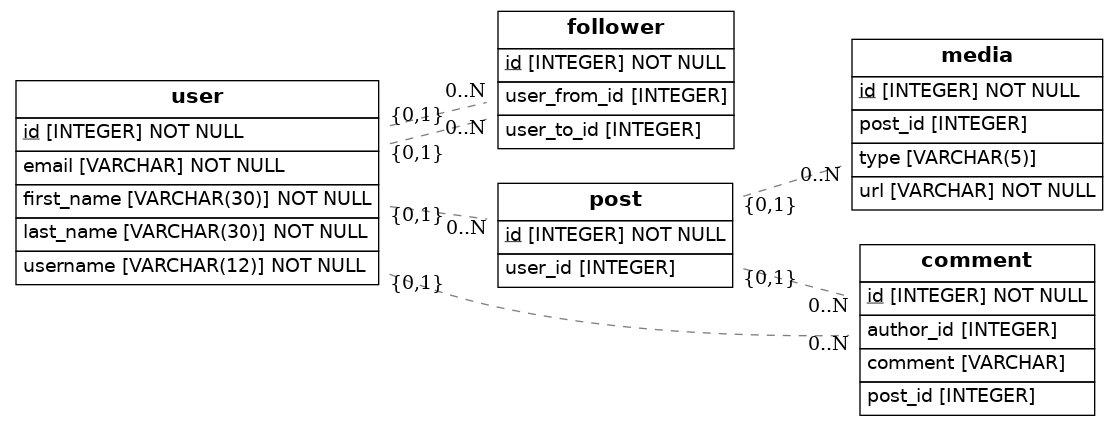
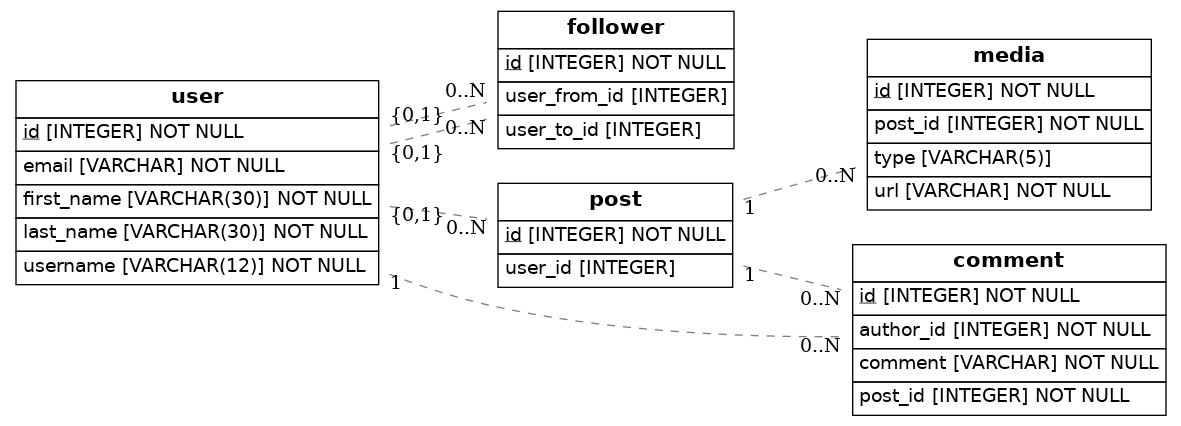
complete

diff --git a/src/models.py b/src/models.py
@@ -14,6 +14,8 @@ class User(Base):
     first_name = Column(String(30), nullable=False)
     last_name = Column(String(30), nullable=False)
     email = Column(String, nullable=False, unique=True)
+    post = relationship('Post', backref='user', lazy=True)
+    follorwer = relationship('Follower', backref='user', lazy=True)
 
 class Follower(Base):
     __tablename__ = "follower"
@@ -30,8 +32,9 @@ class Media(Base):
     __tablename__ = "media"
     id = Column(Integer, primary_key=True)
     post_id = Column(ForeignKey('post.id'), nullable=False)
-    url = Column(String, nullable=False, nullable=False)
+    url = Column(String, nullable=False)
     type = Column(Enum("FEED", "STORY", "REEL"))
+    post = relationship('Post', backref='media', lazy=True)
 
 class Comment(Base):
     __tablename__ = "comment"
@@ -39,10 +42,8 @@ class Comment(Base):
     comment = Column(String, nullable=False)
     post_id = Column(ForeignKey('post.id'), nullable=False)
     author_id = Column(ForeignKey('user.id'), nullable=False)
+    post = relationship('Post', backref='comment', lazy=True)
 
-
-def to_dict(self):
-    return {}
 
 ## Draw from SQLAlchemy base
 try:
